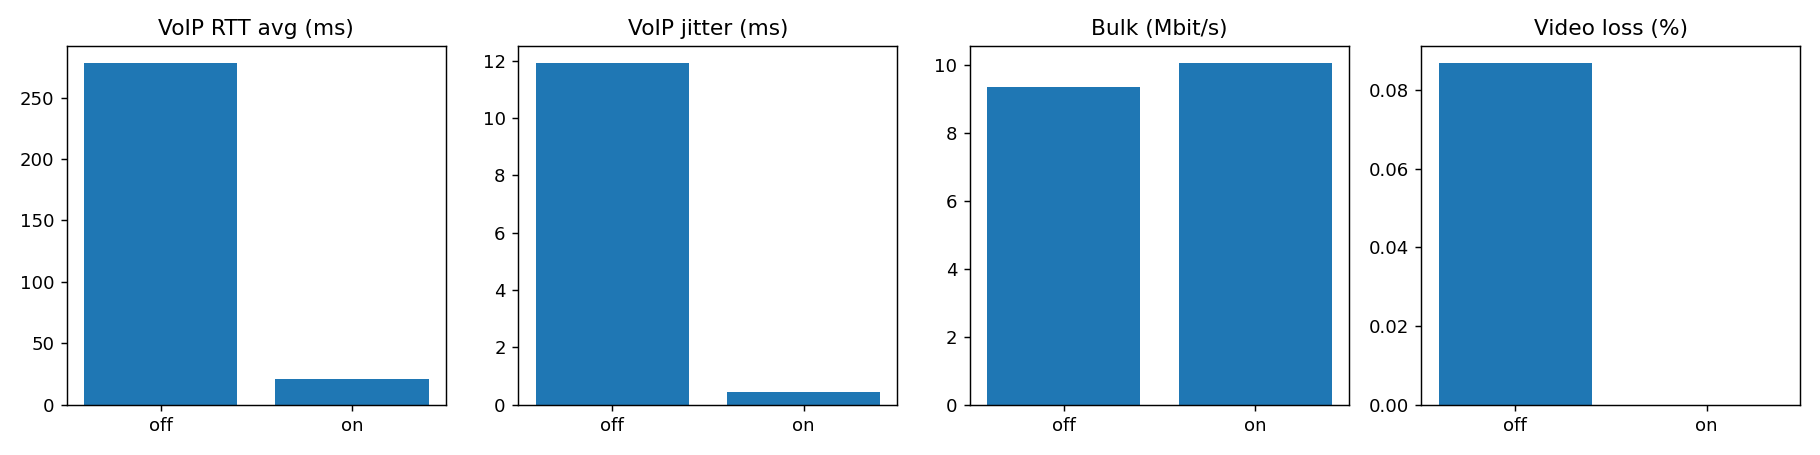
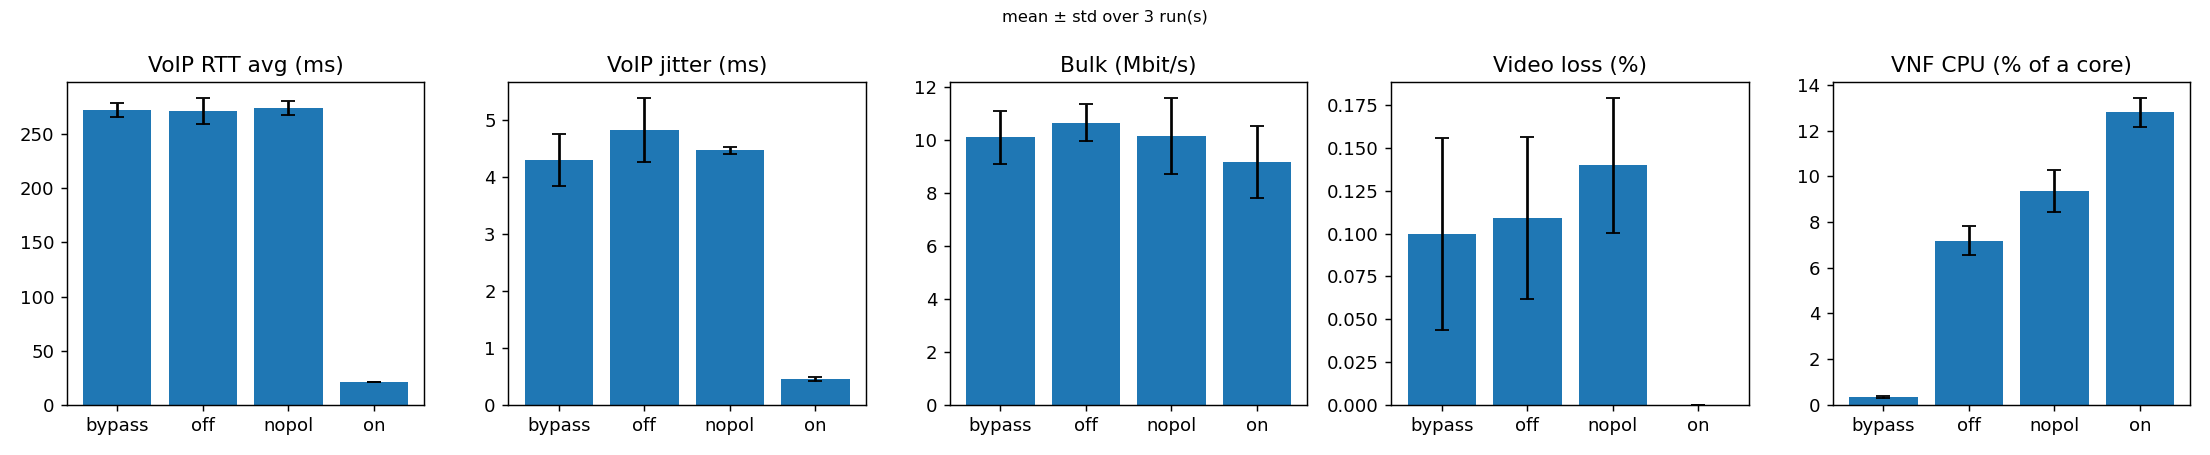
Measure VNF resource usage across test runs
Sample per-container CPU and memory during traffic tests, aggregate resource and network metrics with standard deviations, and add the results to reports and plots. Update the README with the expanded scenario comparisons and resource findings.

diff --git a/tests/run_tests.py b/tests/run_tests.py
@@ -4,10 +4,12 @@
   nopol   chain, fw + cls on, policer off       on     chain, all VNFs on
 Load: VoIP (G.711-like: 200 B every 20 ms), 8 Mbit/s UDP video (HD stream), 4 TCP bulk streams
 starting 5 s later, which saturates the 20 Mbit/s bottleneck.
+CPU and memory of the VNF containers are sampled during the load (docker stats), and with --runs N
+every metric is reported as mean and standard deviation across the runs.
 Usage: sudo python3 tests/run_tests.py [--name NAME] [--runs N] [--scenarios bypass off nopol on]
 Results: results/<name>/<scenario>/run<k>/ plus summary.csv and graphs in results/<name>/
 """
-import argparse, csv, json, os, re, subprocess, sys, time
+import argparse, csv, json, os, re, statistics, subprocess, sys, threading, time
 
 ROOT = os.path.dirname(os.path.dirname(os.path.abspath(__file__)))
 sys.path.insert(0, os.path.join(ROOT, "orchestrator"))
@@ -25,6 +27,50 @@ SCENARIOS = {   # name -> (path, VNFs turned on; the others are off)
     "on":     ("chain", VNFS),
 }
 NAN = float("nan")
+CONTAINERS = ("fw", "cls", "pol", "mon")      # vnf-<name>, all sampled for CPU and memory
+KEYS = ["rtt_avg", "rtt_p95", "rtt_max", "jitter", "voip_loss", "video_mbps", "video_jitter",
+        "video_loss", "bulk_mbps", "bulk_retr", "vnf_cpu", "vnf_mem_mb"] + [f"{v}_cpu" for v in CONTAINERS]
+
+
+def mem_mb(text):
+    """'12.5MiB' -> 12.5 (MiB)"""
+    m = re.match(r"([\d.]+)\s*([A-Za-z]+)", text.strip())
+    units = {"B": 1 / 2**20, "KIB": 1 / 1024, "MIB": 1, "GIB": 1024,
+             "KB": 1e3 / 2**20, "MB": 1e6 / 2**20, "GB": 1e9 / 2**20}
+    return float(m[1]) * units.get(m[2].upper(), NAN) if m else NAN
+
+
+class Resources:
+    """Samples CPU and memory of the VNF containers (docker stats) while a run is going."""
+    def __init__(self, path):
+        self.path, self.stop = path, threading.Event()
+        self.thread = threading.Thread(target=self.loop, daemon=True)
+
+    def __enter__(self):
+        self.thread.start()
+        return self
+
+    def __exit__(self, *exc):
+        self.stop.set()
+        self.thread.join(timeout=10)
+
+    def loop(self):
+        with open(self.path, "w") as f:
+            f.write("time,vnf,cpu_pct,mem_mb\n")
+            while not self.stop.is_set():
+                r = subprocess.run(["docker", "stats", "--no-stream", "--format",
+                                    "{{.Name}},{{.CPUPerc}},{{.MemUsage}}",
+                                    *[f"vnf-{v}" for v in CONTAINERS]], capture_output=True, text=True)
+                now = time.time()
+                for line in r.stdout.splitlines():
+                    try:
+                        name, cpu, mem = line.split(",", 2)
+                        f.write(f"{now:.1f},{name.replace('vnf-', '')},{float(cpu.rstrip('%')):.2f},"
+                                f"{mem_mb(mem.split('/')[0]):.1f}\n")
+                    except ValueError:
+                        pass
+                f.flush()
+                self.stop.wait(0.5)
 
 
 def vcmd(node):
@@ -55,15 +101,16 @@ def run_once(scn, out):
     print("  atk ->", "blocked" if r.returncode else "passed")
     vnf("mon", "on")                                                  # resets mon.csv
     time.sleep(3)
-    procs = [start("c-voip", f"{out}/ping.txt", "ping", "-s", VOIP_SIZE, "-i", VOIP_INTERVAL,
-                   "-w", str(DUR_PING), "-D", "10.0.20.10"),
-             start("c-video", f"{out}/video.json", "iperf3", "-c", "10.0.20.20", "-p", PORT,
-                   "-u", "-b", VIDEO_BW, "-t", str(DUR_VIDEO), "-J")]
-    time.sleep(BULK_DELAY)
-    procs.append(start("c-bulk", f"{out}/bulk.json", "iperf3", "-c", "10.0.20.30", "-p", PORT,
-                       "-t", str(DUR_BULK), "-P", "4", "-J"))
-    for p in procs:
-        p.wait()
+    with Resources(f"{out}/resources.csv"):
+        procs = [start("c-voip", f"{out}/ping.txt", "ping", "-s", VOIP_SIZE, "-i", VOIP_INTERVAL,
+                       "-w", str(DUR_PING), "-D", "10.0.20.10"),
+                 start("c-video", f"{out}/video.json", "iperf3", "-c", "10.0.20.20", "-p", PORT,
+                       "-u", "-b", VIDEO_BW, "-t", str(DUR_VIDEO), "-J")]
+        time.sleep(BULK_DELAY)
+        procs.append(start("c-bulk", f"{out}/bulk.json", "iperf3", "-c", "10.0.20.30", "-p", PORT,
+                           "-t", str(DUR_BULK), "-P", "4", "-J"))
+        for p in procs:
+            p.wait()
     time.sleep(2)
     subprocess.run(["docker", "cp", "vnf-mon:/var/log/mon.csv", f"{out}/mon.csv"], capture_output=True)
 
@@ -93,25 +140,58 @@ def summarize(d):
     except Exception:
         print(f"  WARNING: could not parse {d}/bulk.json")
     s["atk_blocked"] = "RESULT: blocked" in open(f"{d}/atk.txt").read()
+    s.update(resources(d))
     return s, t, rtt
 
 
+def resources(d):
+    """Average CPU (%, of one core) per VNF and in total, and total memory, during the load."""
+    cpu = {v: [] for v in CONTAINERS}
+    mem = {v: [] for v in CONTAINERS}
+    try:
+        for r in csv.DictReader(open(f"{d}/resources.csv")):
+            if r["vnf"] in cpu:
+                cpu[r["vnf"]].append(float(r["cpu_pct"]))
+                mem[r["vnf"]].append(float(r["mem_mb"]))
+    except (OSError, ValueError, KeyError):
+        pass
+    avg = lambda xs: sum(xs) / len(xs) if xs else NAN
+    out = {f"{v}_cpu": avg(cpu[v]) for v in CONTAINERS}
+    out["vnf_cpu"] = sum(out[f"{v}_cpu"] for v in CONTAINERS)
+    out["vnf_mem_mb"] = sum(avg(mem[v]) for v in CONTAINERS)
+    return out
+
+
+def mean_std(values):
+    """Mean and sample standard deviation (0 with a single run)."""
+    m = sum(values) / len(values)
+    return m, (statistics.stdev(values) if len(values) > 1 else 0.0)
+
+
 def report(res, base):
-    keys = ["rtt_avg", "rtt_p95", "rtt_max", "jitter", "voip_loss", "video_mbps", "video_jitter",
-            "video_loss", "bulk_mbps", "bulk_retr"]
-    mean = {scn: {k: sum(r[0][k] for r in runs) / len(runs) for k in keys} for scn, runs in res.items()}
-    for scn, runs in res.items():
-        mean[scn]["atk_blocked"] = all(r[0]["atk_blocked"] for r in runs)
+    keys = KEYS
     names = list(res)
-    print("\n" + " " * 28 + "".join(f"{n:>10}" for n in names))
+    mean, std = {}, {}
+    for scn, runs in res.items():
+        mean[scn], std[scn] = {}, {}
+        for k in keys:
+            mean[scn][k], std[scn][k] = mean_std([r[0][k] for r in runs])
+        mean[scn]["atk_blocked"] = all(r[0]["atk_blocked"] for r in runs)
+    runs_n = len(next(iter(res.values())))
+    print(f"\n(mean ± std over {runs_n} run(s); cpu = % of one core, averaged during the load)")
+    print(" " * 16 + "".join(f"{n:>18}" for n in names))
     for k in ["atk_blocked"] + keys:
-        print(f"{k:28}" + "".join(f"{mean[n][k]:>10.2f}" if k != "atk_blocked"
-                                    else f"{'yes' if mean[n][k] else 'no':>10}" for n in names))
+        if k == "atk_blocked":
+            cells = [f"{'yes' if mean[n][k] else 'no':>18}" for n in names]
+        else:
+            cells = [f"{mean[n][k]:>11.2f} ± {std[n][k]:<4.2f}" for n in names]
+        print(f"{k:16}" + "".join(cells))
     with open(f"{base}/summary.csv", "w", newline="") as f:
         w = csv.writer(f)
-        w.writerow(["metric"] + names)
-        for k in ["atk_blocked"] + keys:
-            w.writerow([k] + [mean[n][k] for n in names])
+        w.writerow(["metric"] + [c for n in names for c in (n, f"{n}_std")])
+        w.writerow(["atk_blocked"] + [c for n in names for c in (mean[n]["atk_blocked"], "")])
+        for k in keys:
+            w.writerow([k] + [c for n in names for c in (round(mean[n][k], 4), round(std[n][k], 4))])
     try:
         import matplotlib
         matplotlib.use("Agg")
@@ -125,11 +205,23 @@ def report(res, base):
             ax.plot([x - t[0] for x in t], rtt, label=scn)
     ax.set(xlabel="time (s)", ylabel="VoIP RTT (ms, log)", yscale="log", title="VoIP latency under load")
     ax.legend(); fig.tight_layout(); fig.savefig(f"{base}/voip_latency.png", dpi=130)
-    fig, axs = plt.subplots(1, 4, figsize=(14, 3.5))
+    fig, axs = plt.subplots(1, 5, figsize=(17, 3.5))
     for ax, (k, title) in zip(axs, [("rtt_avg", "VoIP RTT avg (ms)"), ("jitter", "VoIP jitter (ms)"),
-                                    ("bulk_mbps", "Bulk (Mbit/s)"), ("video_loss", "Video loss (%)")]):
-        ax.bar(names, [mean[n][k] for n in names]); ax.set_title(title)
+                                    ("bulk_mbps", "Bulk (Mbit/s)"), ("video_loss", "Video loss (%)"),
+                                    ("vnf_cpu", "VNF CPU (% of a core)")]):
+        ax.bar(names, [mean[n][k] for n in names], yerr=[std[n][k] for n in names], capsize=4)
+        ax.set_title(title)
+    fig.suptitle(f"mean ± std over {runs_n} run(s)", fontsize=9)
     fig.tight_layout(); fig.savefig(f"{base}/comparison.png", dpi=130)
+    fig, ax = plt.subplots(figsize=(8, 4))             # where the CPU goes, per VNF and scenario
+    bottom = [0.0] * len(names)
+    for v in CONTAINERS:
+        vals = [mean[n][f"{v}_cpu"] for n in names]
+        vals = [0.0 if x != x else x for x in vals]   # NaN (no samples) -> 0
+        ax.bar(names, vals, bottom=bottom, label=f"vnf-{v}")
+        bottom = [b + x for b, x in zip(bottom, vals)]
+    ax.set(ylabel="CPU (% of one core)", title="VNF CPU use during the load")
+    ax.legend(); fig.tight_layout(); fig.savefig(f"{base}/resources.png", dpi=130)
     try:
         rows = list(csv.DictReader(open(f"{base}/on/run1/mon.csv")))
         x = [int(r["time"]) - int(rows[0]["time"]) for r in rows]

diff --git a/tests/sweep.py b/tests/sweep.py
@@ -21,8 +21,7 @@ import qosi
 import run_tests as rt
 
 EDGE = ["c-voip", "c-video", "c-bulk", "atk", "srv-voip", "srv-video", "srv-bulk"]
-KEYS = ["rtt_avg", "rtt_p95", "rtt_max", "jitter", "voip_loss", "video_mbps",
-        "video_jitter", "video_loss", "bulk_mbps", "bulk_retr"]
+KEYS = rt.KEYS
 COND = ["delay", "netem_jitter", "loss", "video", "bulk_streams", "bulk_ceil", "cls_mode", "voip_interval"]
 NO_GRAPH = ("cls_mode", "voip_interval")
 
@@ -67,15 +66,16 @@ def one_run(scn, out, c):
         f.write("RESULT: n/a\n")
     rt.vnf("mon", "on")                               # resets mon.csv
     time.sleep(3)
-    procs = [rt.start("c-voip", f"{out}/ping.txt", "ping", "-s", rt.VOIP_SIZE, "-i", c["voip_interval"],
-                      "-w", str(rt.DUR_PING), "-D", "10.0.20.10"),
-             rt.start("c-video", f"{out}/video.json", "iperf3", "-c", "10.0.20.20", "-p", rt.PORT,
-                      "-u", "-b", c["video"], "-t", str(rt.DUR_VIDEO), "-J")]
-    time.sleep(rt.BULK_DELAY)
-    procs.append(rt.start("c-bulk", f"{out}/bulk.json", "iperf3", "-c", "10.0.20.30", "-p", rt.PORT,
-                          "-t", str(rt.DUR_BULK), "-P", str(c["bulk_streams"]), "-J"))
-    for p in procs:
-        p.wait()
+    with rt.Resources(f"{out}/resources.csv"):
+        procs = [rt.start("c-voip", f"{out}/ping.txt", "ping", "-s", rt.VOIP_SIZE, "-i", c["voip_interval"],
+                          "-w", str(rt.DUR_PING), "-D", "10.0.20.10"),
+                 rt.start("c-video", f"{out}/video.json", "iperf3", "-c", "10.0.20.20", "-p", rt.PORT,
+                          "-u", "-b", c["video"], "-t", str(rt.DUR_VIDEO), "-J")]
+        time.sleep(rt.BULK_DELAY)
+        procs.append(rt.start("c-bulk", f"{out}/bulk.json", "iperf3", "-c", "10.0.20.30", "-p", rt.PORT,
+                              "-t", str(rt.DUR_BULK), "-P", str(c["bulk_streams"]), "-J"))
+        for p in procs:
+            p.wait()
     time.sleep(2)
     subprocess.run(["docker", "cp", "vnf-mon:/var/log/mon.csv", f"{out}/mon.csv"], capture_output=True)
     return rt.summarize(out)[0]
@@ -134,8 +134,10 @@ def main():
                 for k in range(1, a.runs + 1):
                     print(f"--- {scn} run {k}/{a.runs}")
                     runs.append(one_run(scn, f"{base}/{label}/{scn}/run{k}", c))
-                rows.append({**c, "scenario": scn,
-                             **{m: sum(r[m] for r in runs) / len(runs) for m in KEYS}})
+                row = {**c, "scenario": scn}
+                for m in KEYS:
+                    row[m], row[f"{m}_std"] = rt.mean_std([r[m] for r in runs])
+                rows.append(row)
     finally:
         netem("0ms", "0ms", "0%")
         for n in ("srv-video", "srv-bulk"):
@@ -148,7 +150,7 @@ def main():
 
     if rows:
         with open(f"{base}/sweep.csv", "w", newline="") as f:
-            w = csv.DictWriter(f, fieldnames=COND + ["scenario"] + KEYS)
+            w = csv.DictWriter(f, fieldnames=COND + ["scenario"] + [c for m in KEYS for c in (m, f"{m}_std")])
             w.writeheader()
             w.writerows(rows)
         print(f"\nSaved {base}/sweep.csv")
@@ -163,8 +165,9 @@ def main():
                 for ax, (m, t) in zip(axs, [("rtt_avg", "VoIP RTT avg (ms)"), ("rtt_p95", "VoIP RTT p95 (ms)"),
                                             ("bulk_mbps", "Bulk (Mbit/s)"), ("video_loss", "Video loss (%)")]):
                     for scn in a.scenarios:
-                        pts = sorted((num(r[x]), r[m]) for r in rows if r["scenario"] == scn)
-                        ax.plot([p[0] for p in pts], [p[1] for p in pts], marker="o", label=scn)
+                        pts = sorted((num(r[x]), r[m], r[f"{m}_std"]) for r in rows if r["scenario"] == scn)
+                        ax.errorbar([p[0] for p in pts], [p[1] for p in pts], yerr=[p[2] for p in pts],
+                                    marker="o", capsize=3, label=scn)
                     ax.set(xlabel=x, title=t)
                 axs[0].legend()
                 fig.tight_layout()

diff --git a/README.md b/README.md
@@ -109,34 +109,38 @@ sudo docker compose build cls
 
 ## Results
 
-Run with `tests/run_tests.py`: VoIP pings every 0.2 s for 35 s, 8 Mbit/s UDP video for 30 s, and 4 TCP bulk streams starting at 5 s, which saturates the 20 Mbit/s link. "Off" is the same path with the VNFs disabled (the bypass gives the same numbers).
+Measured with `tests/run_tests.py --runs 3`: a VoIP call (G.711-like, 200-byte packets every 20 ms) for 35 s, an 8 Mbit/s UDP video stream for 30 s, and 4 TCP bulk transfers starting at 5 s, which saturates the 20 Mbit/s link. The same load goes through four setups: `bypass` (direct link, no VNFs), `off` (chain with the VNFs off), `nopol` (firewall and classifier on, policer off) and `on` (everything on). Values are mean ± standard deviation over 3 runs.
 
-| Metric | VNFs off | VNFs on |
-| --- | ---: | ---: |
-| Attacker blocked | no | yes |
-| VoIP RTT avg | 278 ms | 21.1 ms |
-| VoIP RTT p95 | 600 ms | 22.0 ms |
-| VoIP jitter | 11.9 ms | 0.44 ms |
-| VoIP loss | 0 % | 0 % |
-| Video throughput | 8.0 Mbit/s | 8.0 Mbit/s |
-| Video loss | 0.09 % | 0 % |
-| Bulk throughput | 9.4 Mbit/s | 10.1 Mbit/s |
+| Metric | bypass | off | nopol | on |
+| --- | ---: | ---: | ---: | ---: |
+| Attacker blocked | no | no | yes | yes |
+| VoIP RTT avg (ms) | 272.6 ± 6.5 | 271.7 ± 12.2 | 274.3 ± 6.6 | **21.2 ± 0.1** |
+| VoIP RTT p95 (ms) | 594.0 ± 4.0 | 595.3 ± 8.1 | 598.7 ± 2.1 | **22.1 ± 0.1** |
+| VoIP jitter (ms) | 4.29 ± 0.46 | 4.82 ± 0.57 | 4.47 ± 0.07 | **0.46 ± 0.03** |
+| VoIP loss (%) | 0.11 ± 0.07 | 0.11 ± 0.10 | 0.13 ± 0.07 | 0.06 ± 0.00 |
+| Video throughput (Mbit/s) | 8.00 | 8.00 | 8.00 | 8.00 |
+| Video loss (%) | 0.10 ± 0.06 | 0.11 ± 0.05 | 0.14 ± 0.04 | **0.00** |
+| Bulk throughput (Mbit/s) | 10.1 ± 1.0 | 10.7 ± 0.7 | 10.2 ± 1.4 | 9.2 ± 1.4 |
+| VNF CPU (% of one core) | 0.3 | 7.2 ± 0.6 | 9.4 ± 0.9 | 12.8 ± 0.7 |
+| VNF memory (MB) | 41 | 41 | 126 | 138 |
 
 ![VoIP latency under load](docs/results/voip_latency.png)
 
-Without the VNFs, VoIP shares the queue with bulk TCP and its RTT goes up to ~600 ms as soon as the bulk streams start. With the chain on it stays around 21 ms the whole time.
+As soon as the bulk transfers start (t = 5 s), VoIP waits behind them in one shared queue and its RTT climbs to ~600 ms, in every setup except `on`, where it stays at ~21 ms. `nopol` is as bad as no VNFs at all: the classifier marks VoIP as EF correctly, but nothing on the path acts on the marking. Classification only pays off together with the scheduler. The price is about 1 Mbit/s of bulk throughput (~10 %), and going through the four extra hops costs no measurable latency (`off` vs `bypass`).
 
 ![Comparison](docs/results/comparison.png)
 
-With 16 Mbit/s of video (more than its share) VoIP is still protected, but video takes the losses:
+![VNF CPU use](docs/results/resources.png)
+
+The monitor is the most expensive VNF (7–10 % of a core): it counts every packet in Python, while the firewall, classifier and policer do their per-packet work in the kernel (iptables, `tc`) and use about 1 % each. It is on in every setup because it is the measuring point. `docker stats` only counts each container's own processes, not packet forwarding in the kernel. The extra memory with `nopol`/`on` is mostly the classifier's Python libraries (Scapy, scikit-learn).
+
+With 16 Mbit/s of video (more than its share) VoIP is still protected, but video takes the losses (earlier single run, VoIP every 0.2 s; `tests/sweep.py --name load --video 8M 16M` repeats it):
 
 | 16 Mbit/s video | VNFs off | VNFs on |
 | --- | ---: | ---: |
 | VoIP RTT avg | 362 ms | 21.2 ms |
 | Video loss | 0.3 % | 25.4 % |
 | Bulk throughput | 3.6 Mbit/s | 8.3 Mbit/s |
-
-Single runs; use `--runs N` to average several.
 
 ## How to run
 
